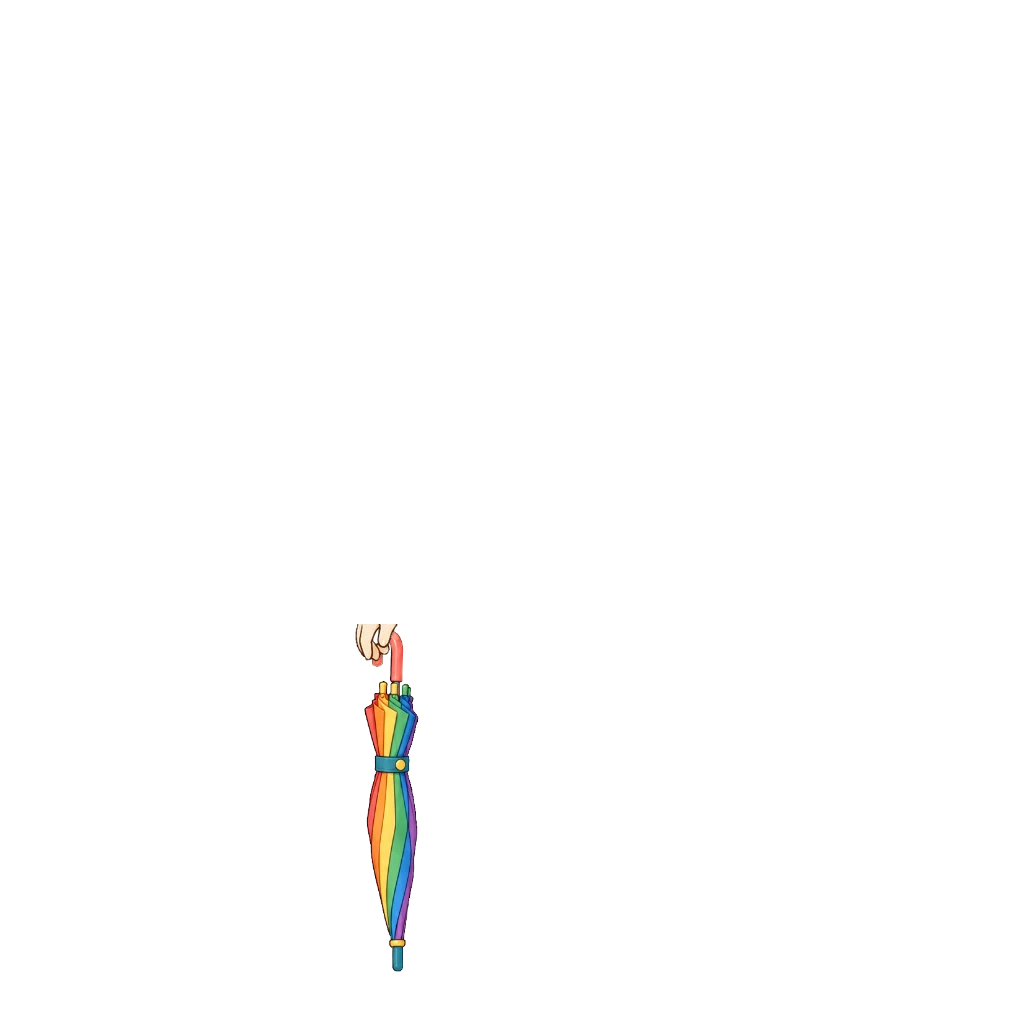
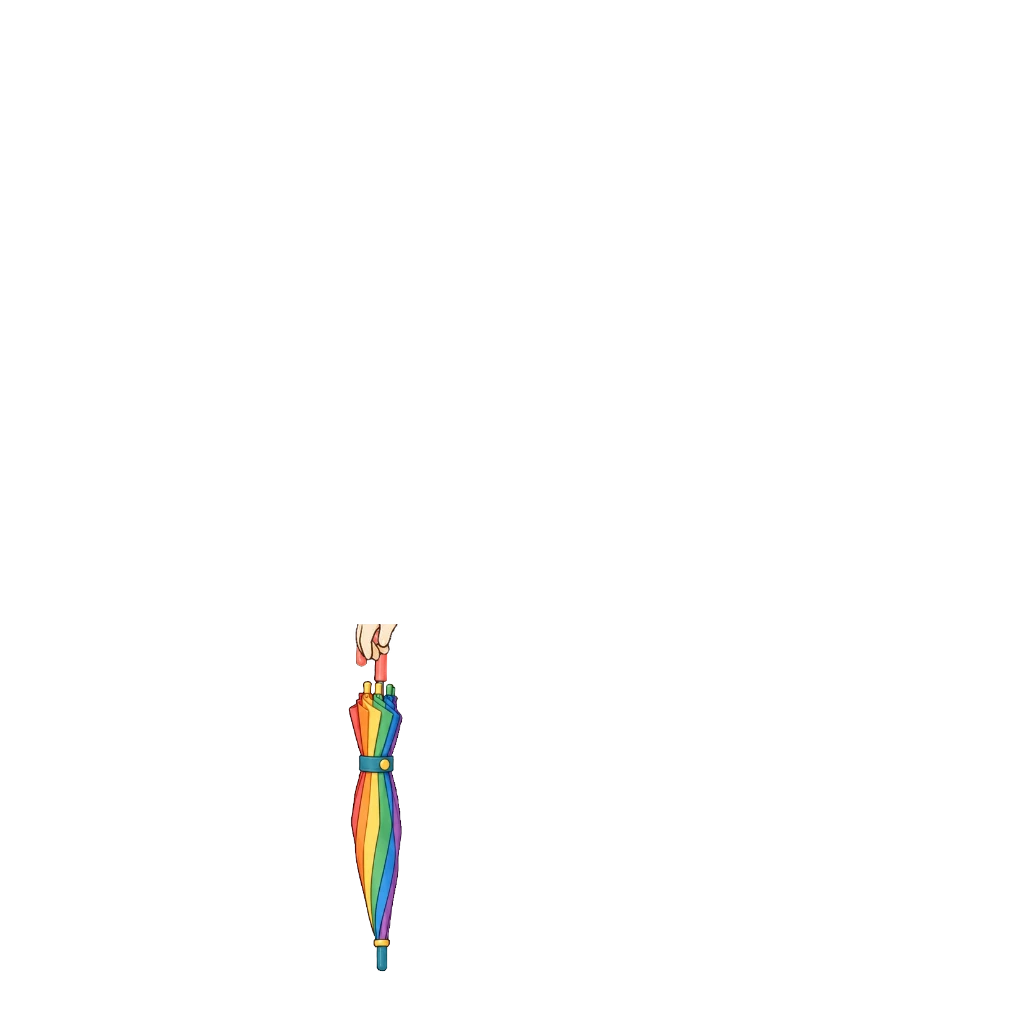
무지개 우산: 손잡이 대가 엄지와 검지 사이로 들어가게 왼쪽 16 (#1015)
Claude-Session: https://claude.ai/code/session_018maNuYqDfFyRSe9uKpZhPR

Changed region(s): [[0.3438, 0.625, 0.4062, 0.9688]]

diff --git a/src/data/avatarEquipment.js b/src/data/avatarEquipment.js
@@ -503,8 +503,9 @@ export const AVATAR_CATALOG = [
      아바타 팔은 참고 그림처럼 굽지 않고 내려와 있어서, 손잡이 고리를 손 안에 넣고 겹치는 손을 우산 위에 다시 그렸다. 옷 위 z 48. 상자 (353,596,408,944).
      [2026-10-11] 사용자 배치대로 — 손잡이 고리가 손가락에 걸리게 오른쪽·아래로(원점 (364,628)), 손 안으로 들어간 고리 끝은 지움(?v=2).
      [2026-10-11] 사용자가 고른 후보 — 고리 끝을 지우지 않은 판, 같은 원점 (364,628)(?v=3).
-     [2026-10-11] 달빛 마법사 — 옷 그림이 손을 따로(치마를 쥔 모양, 왼쪽 18) 그려서 몸 그림 손을 덮으면 손이 잘려 보였다 → 옷 그림의 손으로 덮고 우산도 왼쪽 18(topVariant). */
-  { id: "hand_umbrella_girl", slot: "hand", label: "무지개 우산", emoji: "🌂", price:DECOR_PRICE.rare, rarity: "rare", theme: "common", forGender: "girl", z: 48, img: "assets/avatar/hand/rainbow-umbrella-girl.webp?v=3", topVariant: { top_magic: { img: "assets/avatar/hand/rainbow-umbrella-magic-girl.webp" } }, thumb: "assets/avatar/thumb/hand_umbrella_girl.webp" },
+     [2026-10-11] 달빛 마법사 — 옷 그림이 손을 따로(치마를 쥔 모양, 왼쪽 18) 그려서 몸 그림 손을 덮으면 손이 잘려 보였다 → 옷 그림의 손으로 덮고 우산도 왼쪽 18(topVariant).
+     [2026-10-13] 손잡이 오른쪽(곧은 대)이 엄지와 검지 사이로 들어가게 왼쪽 16(원점 (348,628), ?v=4). 마법사 판은 그대로. */
+  { id: "hand_umbrella_girl", slot: "hand", label: "무지개 우산", emoji: "🌂", price:DECOR_PRICE.rare, rarity: "rare", theme: "common", forGender: "girl", z: 48, img: "assets/avatar/hand/rainbow-umbrella-girl.webp?v=4", topVariant: { top_magic: { img: "assets/avatar/hand/rainbow-umbrella-magic-girl.webp" } }, thumb: "assets/avatar/thumb/hand_umbrella_girl.webp" },
   /* 바다 산소통 [2026-10-05] — 남아. 산소통(사용자 원화 196×433)은 등 뒤 맨 뒤(z 12), 어깨끈 두 줄(283×172)은 맨 앞(zFront 48).
      사용자 배치 참고 그림을 얼굴 매칭(0.847, 물안경이 눈을 가려 코~입으로)으로 아바타 좌표에 올려 위치를 땄다.
      산소통 배율 0.524·원점 (599,361) (참고 그림 쪽이 조금 홀쭉해서 높이·오른쪽 끝 기준), 끈 매칭 0.967 배율 0.700×0.658·원점 (420,431).

diff --git a/art-src/README.md b/art-src/README.md
@@ -644,7 +644,7 @@ bbox로 여백만 잘라내고 배포본은 높이 480px로 축소했다(전부 
 | cookie-bag-girl-src.webp | **쿠키 가방 원화 여아 (사용자 원화 2026-10-11)** — 쿠키 모양 손가방·흰 리본·분홍 손잡이, 핑크 파티시에와 짝. 참고 그림(얼굴 매칭 0.919)대로 왼손(화면 기준)에 — 배율 0.765·원점 (324,636), 옷 위 z 48, 겹치는 손(y630~)을 위에 다시 그림. 손잡이 위쪽을 손 폭(356~398)에 맞게 가로로 좁힘(?v=2). → 모양은 원래대로 되돌리고 위치만 옮겨 손 양옆 선에 맞춤(원점 (325,643), ?v=3). → 사용자가 고른 후보 자리 원점 (320,632)(?v=4). 탑재 상자 (324,630,425,764). 상점 그림은 원화를 세로 160px 로 | avatar/back/cookie-bag-girl.webp · thumb/back_cookie_girl.webp |
 | (원본 같음) strawberry-crossbag-*-src.webp | **딸기 크로스백 옷별 왼쪽 7 (2026-10-11)** — 들꽃 탐험가·파랑 우편부·핑크 파티시에는 가방만 왼쪽으로 7(원점 (559,538), 끈 아래끝 (569,560)). 탐험가·우편부는 그 옷 팔 끝 기준 앞뒤 나눔, 파티시에는 가방 통째로 옷 위+팔 맨 위 | avatar/back/strawberry-crossbag-{,strap-}{vest,delivery}-girl.webp · bakery ?v=5 |
 | sky-bag-girl-src.webp | **하늘 가방 원화 여아 (사용자 원화 2026-10-11)** — 크림색 편지 봉투 가방·분홍 하트·하늘색 끈 한 장, 파랑 우편부와 짝. 참고 그림(얼굴 매칭 0.917)대로 끈 윗끝 (442,384)·하트 (594,573) 두 점 맞춤 배율 0.730·-0.3°, z 38. 탑재 상자 (436,382,630,612). 들꽃 탐험가만 가방 왼쪽 7(크기 그대로 끈 윗끝 중심 회전, 하트 (587,578), sky-bag-vest-girl.webp). 상점 그림은 원화를 세로 160px 로 | avatar/back/sky-bag-girl.webp · thumb/back_sky_girl.webp |
-| rainbow-umbrella-girl-src.webp | **무지개 우산 원화 여아 (사용자 원화 2026-10-11)** — 접은 무지개 우산·분홍 손잡이·청록 끈 88×555, 노란 우비룩과 짝. 참고 그림(얼굴 매칭 0.951)대로 왼손(화면 기준)에 — 배율 0.62·원점 (353,600), 손잡이 고리는 손 안, 겹치는 손을 위에 다시 그림, z 48. 이후 사용자 배치대로 고리가 손가락에 걸리게 원점 (364,628), 고리 끝은 지움(?v=2). → 사용자가 고른 후보로 고리 끝은 남김(?v=3). 탑재 상자 (353,596,408,944). 상점 그림은 원화를 세로 160px 로 | avatar/hand/rainbow-umbrella-girl.webp · thumb/hand_umbrella_girl.webp |
+| rainbow-umbrella-girl-src.webp | **무지개 우산 원화 여아 (사용자 원화 2026-10-11)** — 접은 무지개 우산·분홍 손잡이·청록 끈 88×555, 노란 우비룩과 짝. 참고 그림(얼굴 매칭 0.951)대로 왼손(화면 기준)에 — 배율 0.62·원점 (353,600), 손잡이 고리는 손 안, 겹치는 손을 위에 다시 그림, z 48. 이후 사용자 배치대로 고리가 손가락에 걸리게 원점 (364,628), 고리 끝은 지움(?v=2). → 사용자가 고른 후보로 고리 끝은 남김(?v=3). → 손잡이 곧은 대가 엄지와 검지 사이로 들어가게 왼쪽 16, 원점 (348,628)(?v=4). 탑재 상자 (353,596,408,944). 상점 그림은 원화를 세로 160px 로 | avatar/hand/rainbow-umbrella-girl.webp · thumb/hand_umbrella_girl.webp |
 | (원본 같음) rainbow-umbrella·cookie-bag *-src.webp | **달빛 마법사 전용 (2026-10-11)** — 마법사 옷 그림이 손을 따로 그려(왼쪽 18, 치마를 쥔 모양) 몸 그림 손으로 덮으면 잘려 보였다. 옷 그림의 손(피부 덩어리+윤곽)으로 덮고 우산·쿠키 가방을 왼쪽 18에 둠 | avatar/hand/rainbow-umbrella-magic-girl.webp · avatar/back/cookie-bag-magic-girl.webp |
 | cross-bag-boy-src.webp | **번개 크로스백 원화 남아 (사용자 원화 2026-10-11, 끈 늘린 판으로 교체)** — 남색·청록 크로스백·노란 지퍼 고리·긴 검정 끈 314×387, 번개 스케이터와 짝. 모든 옷에서 가방은 번개 스케이터와 같은 자리(배율 0.723·-6.0°, 지퍼 고리 (545,543)). 번개 스케이터는 끈 윗끝을 후드 아래 선에서, 나머지 옷은 그 옷의 어깨선(몸+옷 윤곽 3px 안쪽)에서 자름. 상점 그림은 이전 그대로 | avatar/back/cross-bag-boy.webp(맨몸) · cross-bag-{board,tee,vest,pirate,hoodie,beach,acorn,space}-boy.webp |
 | compass-watch-boy-src.webp | **나침반 시계 원화 남아 (사용자 원화 2026-10-12)** — 갈색 땋은 줄·나침반 얼굴 77×58, 정글 탐험대와 짝. 참고 그림(얼굴 매칭 0.979)처럼 오른손(화면 기준) 손목에 배율 0.6·원점 (628,614), z 48. 이후 배율 0.75·원점 (618,585), 아래끝을 엄지 위 튀어나온 곳(y629)에(?v=2). 오른쪽으로 4(원점 (622,585), ?v=3). 번개 스케이터만 아래로 6, 소매 아래선에 맞춤(compass-watch-board-boy.webp). 탑재 상자 (628,614,675,649). 상점 그림은 원화를 세로 160px 로 | avatar/hand/compass-watch-boy.webp · thumb/hand_watch_boy.webp |
